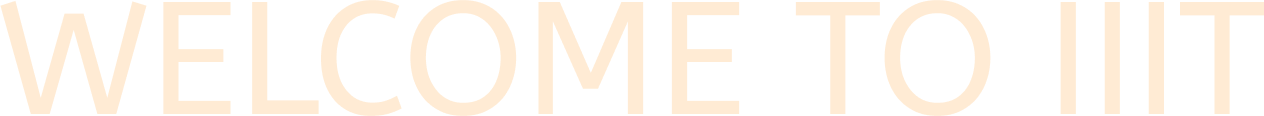
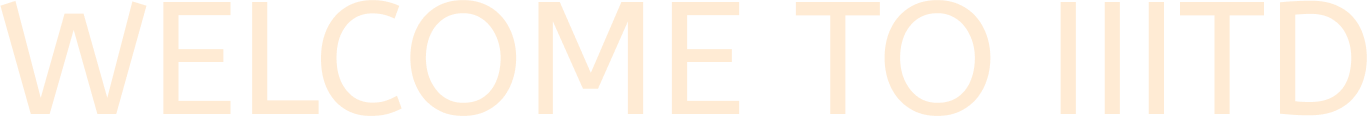
schedule getting cut

diff --git a/index.html b/index.html
@@ -97,6 +97,13 @@
                     <p>Developed by <span class="inline-names">Praveer, Raghav</span></p>
                     <p>Designed by <span class="inline-names">Vidhan, Yuvraj, Virat</span></p>
                 </div>
+
+                <div class="footer-contact">
+                    <p><i class="fa-solid fa-mobile"></i><span>Phone</span> +91-011-71985300, +91-011-26907400-7404</p>
+                    <p><i class="fa-solid fa-envelope"></i><span>Mail</span> info@iiitd.ac.in</p>
+                    <p><i class="fa-solid fa-phone"></i><span>Fax</span> +91-11-26907405</p>
+                </div>
+            </div>
                 <div class="footer-social">
                     <a href="https://www.instagram.com/iiit.delhi/" target="_blank"><i
                             class="fa-brands fa-square-instagram"></i></a>
@@ -104,13 +111,6 @@
                     <a href="https://www.linkedin.com/school/iiit-delhi/posts/?feedView=all" target="_blank"><i
                             class="fa-brands fa-linkedin"></i></a>
                 </div>
-                <div class="footer-contact">
-                    <p><i class="fa-solid fa-mobile"></i><span>Phone</span> +91-011-71985300, +91-011-26907400-7404</p>
-                    <p><i class="fa-solid fa-envelope"></i><span>Mail</span> info@iiitd.ac.in</p>
-                    <p><i class="fa-solid fa-phone"></i><span>Fax</span> +91-11-26907405</p>
-                </div>
-            </div>
-
         </div>
     </footer>
 

diff --git a/style.css b/style.css
@@ -50,7 +50,11 @@ header {
     gap: 1vw;
     font-size: 1rem;
 }
-
+.schedule {
+    font-size: 0.9rem;
+    flex-shrink: 1;
+    white-space: nowrap;
+}
 
 
 .home {
@@ -383,15 +387,28 @@ header {
     font-weight: bold;
 }
 
+.footer {
+    display: flex;
+    flex-direction: column;
+    justify-content: space-between; /* Push footer-social to bottom */
+    min-height: 200px; /* Or however tall your footer needs to be */
+    padding: 20px;
+    color: white;
+    background-color: #0B0B0B;
+    background-image: url('Images/bg-about-footer.png');
+    background-repeat: repeat;
+    background-position: center;
+    background-size: cover;
+}
+
 .footer-social {
     display: flex;
     gap: 10px;
-    position: relative;
-    top: 4vh;
-    /* left: 9vw; */
-    width: 28vw;
     justify-content: center;
+    margin-top: auto;
+    padding-top: 1rem;
 }
+
 
 .footer-social a img {
     width: 24px;
@@ -606,8 +623,8 @@ header {
     }
 
     .footer-social {
-        top: 15vh;
-    }
+    margin-top: auto;
+    padding-top: 1rem;    }
 
     .footer-content .footer-image .induction-25 {
         left: 2vw;
@@ -683,5 +700,17 @@ header {
 
     .hover-text .designation {
         font-size: 0.75rem;
+    }
+}
+
+
+@media (max-width: 500px) {
+    .schedule {
+        font-size: 0.75rem;
+        gap: 0.5rem;
+    }
+
+    header {
+        padding: 0 10px;
     }
 }
